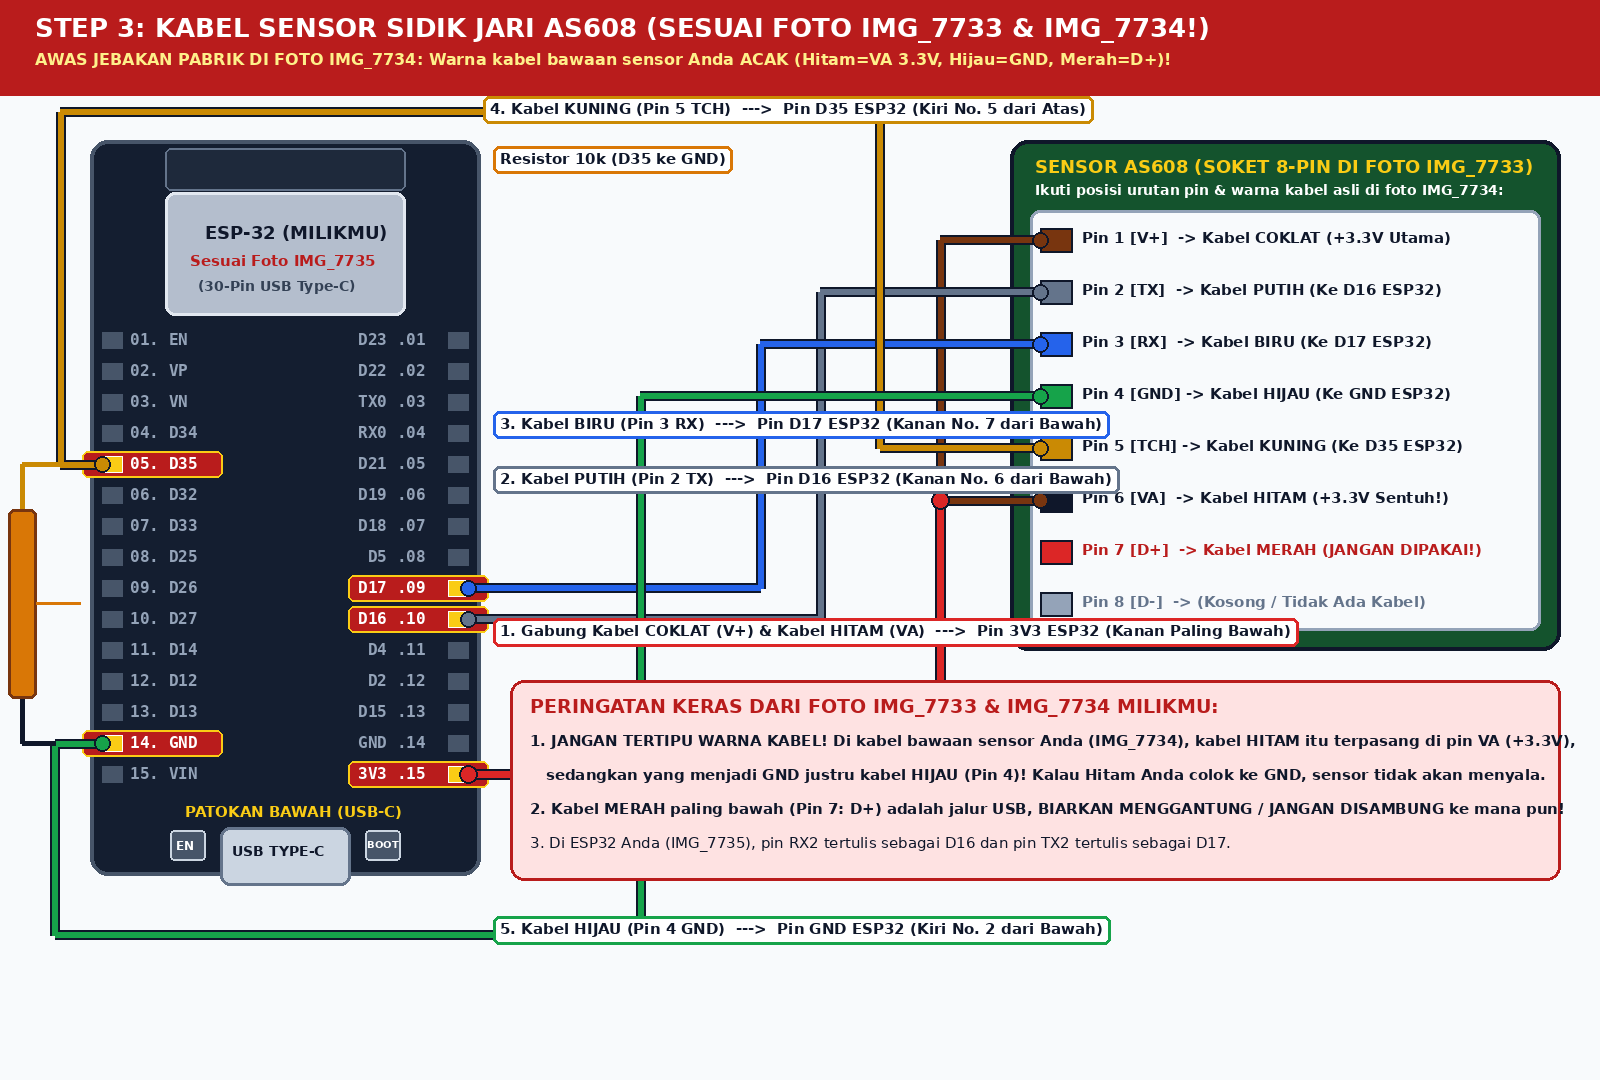
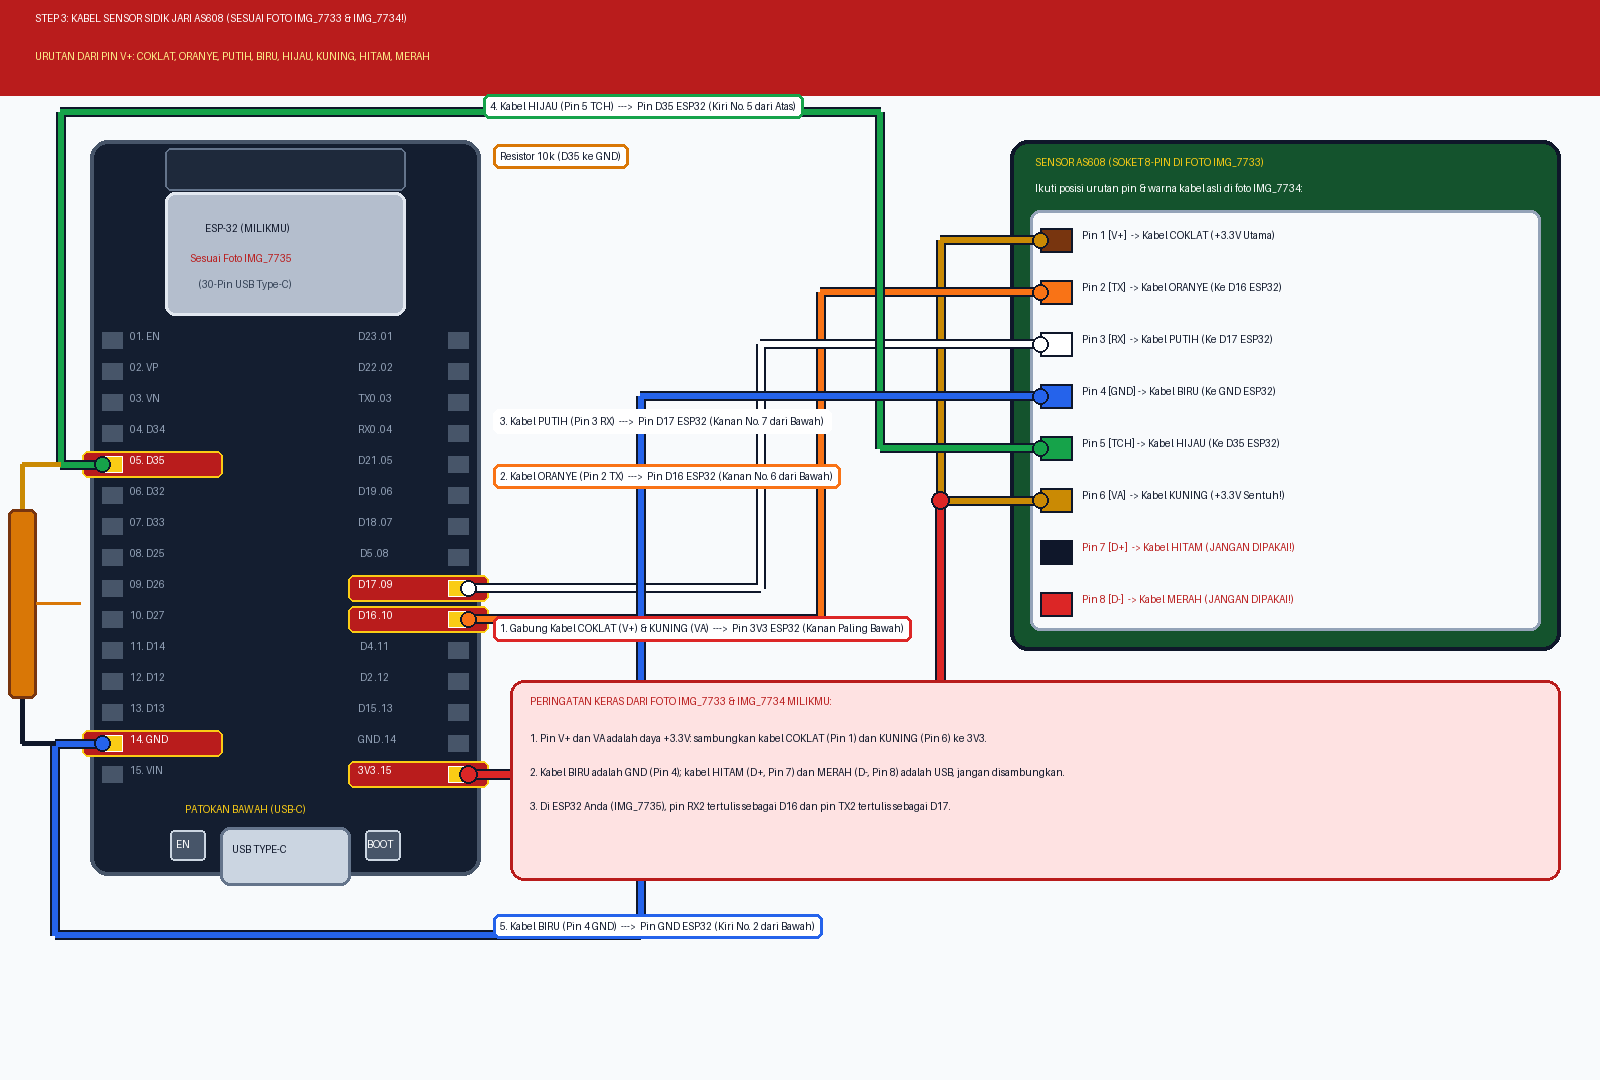
ok

Changed region(s): [[0.0, 0.0, 0.9375, 0.8861], [0.3125, 0.6417, 0.9688, 0.7944], [0.125, 0.1833, 0.25, 0.275]]

diff --git a/render_wiring_steps.py b/render_wiring_steps.py
@@ -355,7 +355,7 @@ def make_step3():
 
     d.rectangle([0, 0, W, 95], fill=(185, 28, 28))
     d.text((35, 12), "STEP 3: KABEL SENSOR SIDIK JARI AS608 (SESUAI FOTO IMG_7733 & IMG_7734!)", fill=(255, 255, 255), font=get_font(26, bold=True))
-    d.text((35, 50), "AWAS JEBAKAN PABRIK DI FOTO IMG_7734: Warna kabel bawaan sensor Anda ACAK (Hitam=VA 3.3V, Hijau=GND, Merah=D+)!", fill=(254, 240, 138), font=get_font(16, bold=True))
+    d.text((35, 50), "URUTAN DARI PIN V+: COKLAT, ORANYE, PUTIH, BIRU, HIJAU, KUNING, HITAM, MERAH", fill=(254, 240, 138), font=get_font(16, bold=True))
 
     esp_coords = draw_esp32(d, 90, 140, active_left=["D35", "GND_L"], active_right=["D17", "D16", "3V3"])
 
@@ -367,54 +367,54 @@ def make_step3():
 
     d.rounded_rectangle([fx+20, fy+70, fx+530, fy+490], radius=10, fill=(248, 250, 252), outline=(148, 163, 184), width=3)
 
-    # Persis 8 Pin dari atas ke bawah sesuai IMG_7733 & IMG_7734:
+    # Urutan kabel dari V+: coklat, oranye, putih, biru, hijau, kuning, hitam, merah.
     fp_pins = [
         ("P1", "Pin 1 [V+]  -> Kabel COKLAT (+3.3V Utama)",     fy+100, (120, 53, 15)),
-        ("P2", "Pin 2 [TX]  -> Kabel PUTIH (Ke D16 ESP32)",     fy+152, (100, 116, 139)),
-        ("P3", "Pin 3 [RX]  -> Kabel BIRU (Ke D17 ESP32)",      fy+204, (37, 99, 235)),
-        ("P4", "Pin 4 [GND] -> Kabel HIJAU (Ke GND ESP32)",     fy+256, (22, 163, 74)),
-        ("P5", "Pin 5 [TCH] -> Kabel KUNING (Ke D35 ESP32)",    fy+308, (202, 138, 4)),
-        ("P6", "Pin 6 [VA]  -> Kabel HITAM (+3.3V Sentuh!)",    fy+360, (15, 23, 42)),
-        ("P7", "Pin 7 [D+]  -> Kabel MERAH (JANGAN DIPAKAI!)",  fy+412, (220, 38, 38)),
-        ("P8", "Pin 8 [D-]  -> (Kosong / Tidak Ada Kabel)",     fy+464, (148, 163, 184)),
+        ("P2", "Pin 2 [TX]  -> Kabel ORANYE (Ke D16 ESP32)",    fy+152, (249, 115, 22)),
+        ("P3", "Pin 3 [RX]  -> Kabel PUTIH (Ke D17 ESP32)",     fy+204, (255, 255, 255)),
+        ("P4", "Pin 4 [GND] -> Kabel BIRU (Ke GND ESP32)",      fy+256, (37, 99, 235)),
+        ("P5", "Pin 5 [TCH] -> Kabel HIJAU (Ke D35 ESP32)",     fy+308, (22, 163, 74)),
+        ("P6", "Pin 6 [VA]  -> Kabel KUNING (+3.3V Sentuh!)",   fy+360, (202, 138, 4)),
+        ("P7", "Pin 7 [D+]  -> Kabel HITAM (JANGAN DIPAKAI!)",  fy+412, (15, 23, 42)),
+        ("P8", "Pin 8 [D-]  -> Kabel MERAH (JANGAN DIPAKAI!)",  fy+464, (220, 38, 38)),
     ]
     fp_pts = {}
     for pcode, pdesc, py, col in fp_pins:
         d.rectangle([fx+30, py-12, fx+62, py+12], fill=col, outline=(15, 23, 42), width=2)
-        txt_c = (185, 28, 28) if pcode == "P7" else ((100, 116, 139) if pcode == "P8" else (15, 23, 42))
+        txt_c = (185, 28, 28) if pcode in ["P7", "P8"] else (15, 23, 42)
         d.text((fx+72, py-11), pdesc, fill=txt_c, font=get_font(15, bold=True))
         fp_pts[pcode] = (fx+30, py)
 
-    # 1. Pin 1 (V+ Coklat) & Pin 6 (VA Hitam) digabung -> 3V3 ESP32 (Kanan Paling Bawah!)
+    # 1. Pin 1 (V+ Coklat) & Pin 6 (VA Kuning) digabung -> 3V3 ESP32 (Kanan Paling Bawah!)
     draw_wire(d, [
         fp_pts["P1"],
         (940, fp_pts["P1"][1]),
         (940, fp_pts["P6"][1]),
         fp_pts["P6"]
-    ], (120, 53, 15), width=6)
+    ], (202, 138, 4), width=6)
     draw_wire(d, [
         (940, fp_pts["P6"][1]),
         (940, esp_coords["3V3"][1]),
         esp_coords["3V3"]
-    ], (220, 38, 38), width=7, label="1. Gabung Kabel COKLAT (V+) & Kabel HITAM (VA)  --->  Pin 3V3 ESP32 (Kanan Paling Bawah)", label_pos=(500, 622), labels_queue=lbls)
+    ], (220, 38, 38), width=7, label="1. Gabung Kabel COKLAT (V+) & KUNING (VA)  --->  Pin 3V3 ESP32 (Kanan Paling Bawah)", label_pos=(500, 622), labels_queue=lbls)
 
-    # 2. Pin 2 (TX Putih) -> D16 ESP32 (Kanan No. 10)
+    # 2. Pin 2 (TX Oranye) -> D16 ESP32 (Kanan No. 10)
     draw_wire(d, [
         fp_pts["P2"],
         (820, fp_pts["P2"][1]),
         (820, esp_coords["D16"][1]),
         esp_coords["D16"]
-    ], (100, 116, 139), width=6, label="2. Kabel PUTIH (Pin 2 TX)  --->  Pin D16 ESP32 (Kanan No. 6 dari Bawah)", label_pos=(500, 470), labels_queue=lbls)
+    ], (249, 115, 22), width=6, label="2. Kabel ORANYE (Pin 2 TX)  --->  Pin D16 ESP32 (Kanan No. 6 dari Bawah)", label_pos=(500, 470), labels_queue=lbls)
 
-    # 3. Pin 3 (RX Biru) -> D17 ESP32 (Kanan No. 9)
+    # 3. Pin 3 (RX Putih) -> D17 ESP32 (Kanan No. 9)
     draw_wire(d, [
         fp_pts["P3"],
         (760, fp_pts["P3"][1]),
         (760, esp_coords["D17"][1]),
         esp_coords["D17"]
-    ], (37, 99, 235), width=6, label="3. Kabel BIRU (Pin 3 RX)  --->  Pin D17 ESP32 (Kanan No. 7 dari Bawah)", label_pos=(500, 415), labels_queue=lbls)
+    ], (255, 255, 255), width=6, label="3. Kabel PUTIH (Pin 3 RX)  --->  Pin D17 ESP32 (Kanan No. 7 dari Bawah)", label_pos=(500, 415), labels_queue=lbls)
 
-    # 4. Pin 5 (TCH Kuning) -> D35 ESP32 (Kiri No. 5 dari Atas, lewat jalur atas)
+    # 4. Pin 5 (TCH Hijau) -> D35 ESP32 (Kiri No. 5 dari Atas, lewat jalur atas)
     draw_wire(d, [
         fp_pts["P5"],
         (880, fp_pts["P5"][1]),
@@ -422,9 +422,9 @@ def make_step3():
         (60, 112),
         (60, esp_coords["D35"][1]),
         esp_coords["D35"]
-    ], (202, 138, 4), width=6, label="4. Kabel KUNING (Pin 5 TCH)  --->  Pin D35 ESP32 (Kiri No. 5 dari Atas)", label_pos=(490, 100), labels_queue=lbls)
+    ], (22, 163, 74), width=6, label="4. Kabel HIJAU (Pin 5 TCH)  --->  Pin D35 ESP32 (Kiri No. 5 dari Atas)", label_pos=(490, 100), labels_queue=lbls)
 
-    # 5. Pin 4 (GND Hijau) -> GND_L ESP32 (Kiri No. 2 dari Bawah, lewat jalur bawah)
+    # 5. Pin 4 (GND Biru) -> GND_L ESP32 (Kiri No. 2 dari Bawah, lewat jalur bawah)
     draw_wire(d, [
         fp_pts["P4"],
         (640, fp_pts["P4"][1]),
@@ -432,7 +432,7 @@ def make_step3():
         (55, 935),
         (55, esp_coords["GND_L"][1]),
         esp_coords["GND_L"]
-    ], (22, 163, 74), width=6, label="5. Kabel HIJAU (Pin 4 GND)  --->  Pin GND ESP32 (Kiri No. 2 dari Bawah)", label_pos=(500, 920), labels_queue=lbls)
+    ], (37, 99, 235), width=6, label="5. Kabel BIRU (Pin 4 GND)  --->  Pin GND ESP32 (Kiri No. 2 dari Bawah)", label_pos=(500, 920), labels_queue=lbls)
 
     # Resistor 10k antara D35 dan GND_L di sisi kiri luar ESP32 (x=22)
     res_y1, res_y2 = esp_coords["D35"][1] + 45, esp_coords["GND_L"][1] - 45
@@ -447,9 +447,8 @@ def make_step3():
     d.rounded_rectangle([510, 680, 1560, 880], radius=14, fill=(254, 226, 226), outline=(185, 28, 28), width=3)
     d.text((530, 695), "PERINGATAN KERAS DARI FOTO IMG_7733 & IMG_7734 MILIKMU:", fill=(185, 28, 28), font=get_font(19, bold=True))
     notes = [
-        "1. JANGAN TERTIPU WARNA KABEL! Di kabel bawaan sensor Anda (IMG_7734), kabel HITAM itu terpasang di pin VA (+3.3V),",
-        "   sedangkan yang menjadi GND justru kabel HIJAU (Pin 4)! Kalau Hitam Anda colok ke GND, sensor tidak akan menyala.",
-        "2. Kabel MERAH paling bawah (Pin 7: D+) adalah jalur USB, BIARKAN MENGGANTUNG / JANGAN DISAMBUNG ke mana pun!",
+        "1. Pin V+ dan VA adalah daya +3.3V: sambungkan kabel COKLAT (Pin 1) dan KUNING (Pin 6) ke 3V3.",
+        "2. Kabel BIRU adalah GND (Pin 4); kabel HITAM (D+, Pin 7) dan MERAH (D-, Pin 8) adalah USB, jangan disambungkan.",
         "3. Di ESP32 Anda (IMG_7735), pin RX2 tertulis sebagai D16 dan pin TX2 tertulis sebagai D17."
     ]
     for i, n in enumerate(notes):

diff --git a/README.md b/README.md
@@ -226,6 +226,7 @@ Casing dirancang presisi dengan toleransi clearance 1.5 mm di sekeliling PCB aga
 ![Step 2 Wiring OLED](step2_wiring_oled.png)
 
 #### Step 3: Pasang Kabel Sensor Sidik Jari AS608 (Soket 8-Pin) ke ESP32
+Urutan kabel mulai dari pin `V+`: **coklat, oranye, putih, biru, hijau, kuning, hitam, merah**. Pin 1–8 berturut-turut adalah `V+`, `TX`, `RX`, `GND`, `TCH`, `VA`, `D+`, `D-`; hubungkan coklat dan kuning ke `3V3`, biru ke `GND`, oranye (`TX`) ke `D16`, putih (`RX`) ke `D17`, dan hijau (`TCH`) ke `D35`. Kabel hitam (`D+`) dan merah (`D-`) adalah jalur USB, biarkan tidak tersambung.
 ![Step 3 Wiring Fingerprint AS608](step3_wiring_fingerprint_as608.png)
 
 #### Step 4: Pasang Buzzer 3.3V, Resistor 1k & Dioda Flyback ke ESP32
